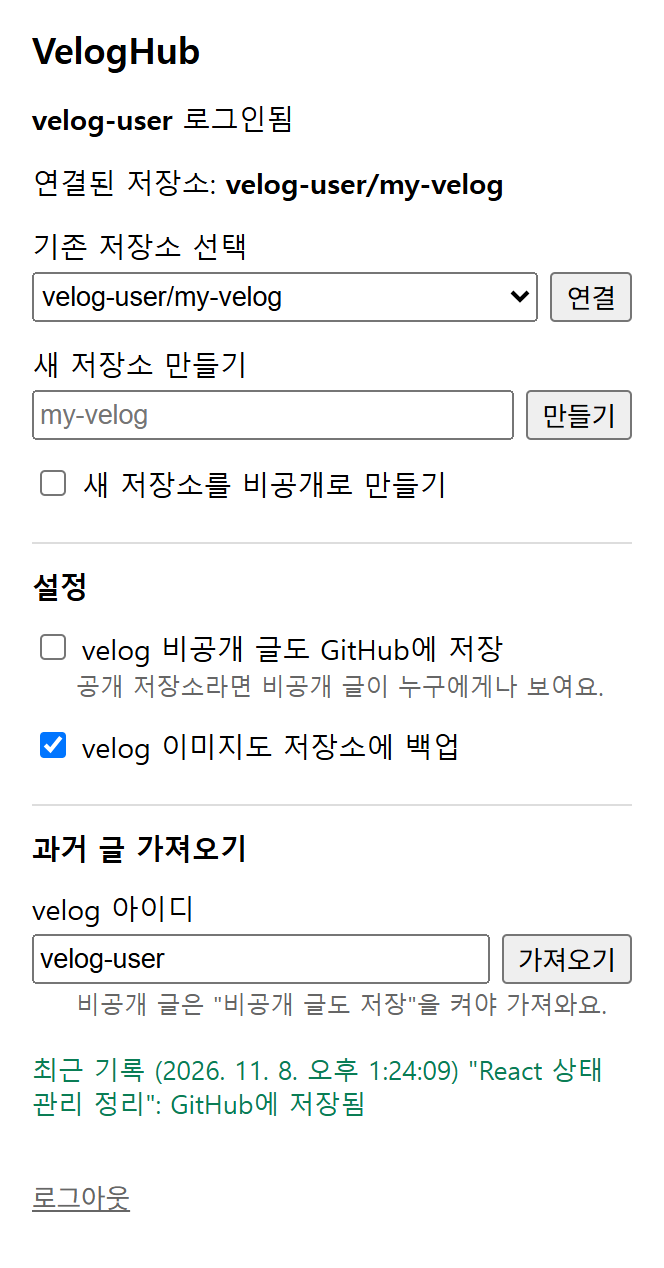
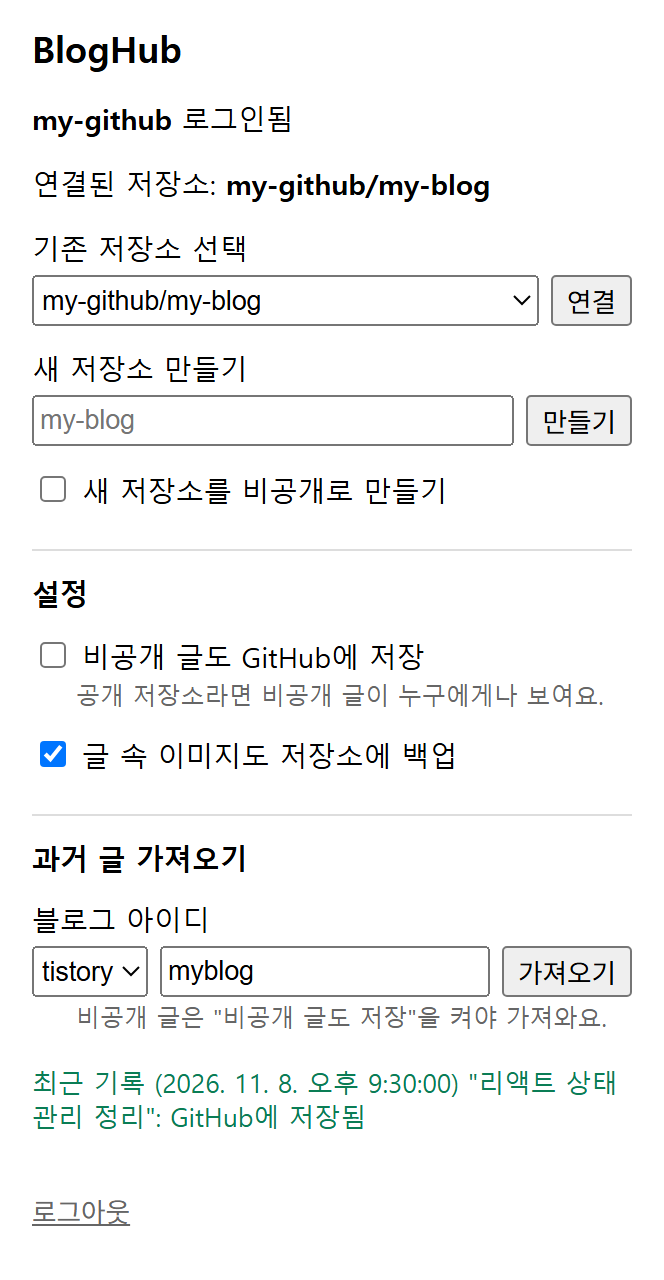
티스토리 과거 글 가져오기, 팝업 문구 정리, README 갱신
- 과거 글 가져오기를 velog/tistory 선택 + 블로그 아이디로 바꿈 (티스토리는 내 블로그 글 목록에서 가져옴)
- 설정 문구에서 velog를 빼고 블로그 공통으로
- README 팝업 사진과 과거 글 가져오기 설명, 스토어 설명 갱신

diff --git a/src/background.js b/src/background.js
@@ -5,17 +5,27 @@ import * as tistory from './tistory.js';
 
 const store = chrome.storage.local;
 
-// 메시지를 보낸 페이지로 어느 블로그인지 정한다.
+// 블로그마다 다른 부분.
 // key: 저장소에 저장한 파일을 기억하는 이름 (티스토리 글 번호는 블로그마다 1부터라 블로그 주소를 붙인다)
-function sourceOf(url) {
-  if (url?.startsWith('https://velog.io/')) return { name: 'velog', fetchPost, key: (id) => id };
-  const origin = url && new URL(url).pathname.startsWith('/manage/') ? tistory.blogOrigin(url) : null;
-  if (!origin) throw new Error('velog나 티스토리 관리 화면에서 온 요청이 아니에요');
+// importId: 팝업의 "과거 글 가져오기" 칸에 미리 채울 아이디
+const velogSource = { name: 'velog', fetchPost, key: (id) => id, importId: (post) => post.username };
+
+function tistorySource(origin) {
+  const host = new URL(origin).hostname;
   return {
     name: 'tistory',
     fetchPost: (id) => tistory.fetchPost(origin, id),
-    key: (id) => `tistory:${new URL(origin).hostname}:${id}`,
+    key: (id) => `tistory:${host}:${id}`,
+    importId: () => host.split('.')[0],
   };
+}
+
+// 메시지를 보낸 페이지로 어느 블로그인지 정한다
+function sourceOf(url) {
+  if (url?.startsWith('https://velog.io/')) return velogSource;
+  const origin = url && new URL(url).pathname.startsWith('/manage/') ? tistory.blogOrigin(url) : null;
+  if (!origin) throw new Error('velog나 티스토리 관리 화면에서 온 요청이 아니에요');
+  return tistorySource(origin);
 }
 
 // 서비스 워커가 새로 떴다면 전에 하던 가져오기는 이미 멈춘 것이라 표시를 지운다
@@ -103,7 +113,7 @@ async function publish(id, token, source) {
   if (!post) throw new Error(`${source.name}에서 글을 찾지 못했어요. 비공개 글이면 로그인돼 있는지 확인해 주세요.`);
   const done = (message) => ({ title: post.title, message });
   if (post.is_temp) return done('임시저장 글이라 저장하지 않았어요.');
-  if (source.name === 'velog') await store.set({ velogUser: post.username }); // 과거 글 가져오기 칸에 미리 채워 둔다
+  await store.set({ importBlog: source.name, importUser: source.importId(post) }); // 과거 글 가져오기 칸에 미리 채워 둔다
   const key = source.key(post.id);
   const oldPath = pathOf(key);
 
@@ -128,37 +138,53 @@ async function publish(id, token, source) {
 // 이미지 메모리와 GitHub 요청이 한꺼번에 몰리지 않게 이만큼씩 나눠 커밋한다
 const IMPORT_CHUNK = 10;
 
-// velog에 쓴 글 전체를 가져온다
-async function importAll(username, token) {
+// 과거 글 목록. load는 목록의 한 항목을 저장할 글로 바꾼다 (지워졌으면 null).
+// velog는 목록에 글 내용까지 오고, 티스토리는 글 번호만 와서 한 글씩 다시 읽는다.
+async function postList(blog, username, onPage) {
+  if (blog === 'tistory') {
+    const origin = tistory.originOf(username);
+    const source = tistorySource(origin);
+    return { source, items: await tistory.listPostIds(origin, onPage), load: (id) => source.fetchPost(id) };
+  }
+  return { source: velogSource, items: await fetchAllPosts(username, onPage), load: async (item) => normalize(item) };
+}
+
+// 블로그에 쓴 글 전체를 가져온다
+async function importAll(blog, username, token) {
   const { repo, savePrivate, backupImages, pathOf, remember } = await target(token);
   const status = (importStatus) => store.set({ importStatus });
-  const raw = await fetchAllPosts(username, (n) => status(`글 목록 불러오는 중 (${n}개)`));
+  const { source, items, load } = await postList(blog, username, (n) => status(`글 목록 불러오는 중 (${n}개)`));
   let saved = 0;
   let broken = 0;
-  for (let start = 0; start < raw.length; start += IMPORT_CHUNK) {
+  for (let start = 0; start < items.length; start += IMPORT_CHUNK) {
     const files = {};
     const deleteDirs = [];
     const paths = {};
-    for (const [j, item] of raw.slice(start, start + IMPORT_CHUNK).entries()) {
-      await status(`글 준비 중 ${start + j + 1}/${raw.length}`);
+    for (const [j, item] of items.slice(start, start + IMPORT_CHUNK).entries()) {
+      await status(`글 준비 중 ${start + j + 1}/${items.length}`);
       let post;
       try {
-        post = normalize(item);
+        post = await load(item);
       } catch {
         broken++; // 정보가 빠진 글 하나 때문에 전체를 멈추지 않는다
         continue;
       }
-      if (post.is_temp || (post.is_private && !savePrivate)) continue;
-      const result = await postFiles(post, backupImages, pathOf(post.id));
+      if (!post || post.is_temp || (post.is_private && !savePrivate)) continue;
+      const key = source.key(post.id);
+      const result = await postFiles(post, backupImages, pathOf(key));
       Object.assign(files, result.files);
       deleteDirs.push(...result.deleteDirs);
-      paths[post.id] = result.path;
+      paths[key] = result.path;
     }
     const count = Object.keys(paths).length;
     if (!count) continue;
-    const end = Math.min(start + IMPORT_CHUNK, raw.length);
-    await status(`GitHub에 커밋하는 중 (${end}/${raw.length})`);
-    await commitFiles(token, repo, { files, deleteDirs, message: `[velog] 과거 글 가져오기 (${start + 1}~${end})` });
+    const end = Math.min(start + IMPORT_CHUNK, items.length);
+    await status(`GitHub에 커밋하는 중 (${end}/${items.length})`);
+    await commitFiles(token, repo, {
+      files,
+      deleteDirs,
+      message: `[${source.name}] 과거 글 가져오기 (${start + 1}~${end})`,
+    });
     await remember(paths); // 나눠 커밋하므로 중간에 멈춰도 여기까지는 저장된다
     saved += count;
   }
@@ -212,12 +238,14 @@ async function handle(msg, sender) {
       });
     }
     case 'import': {
-      if (typeof msg.username !== 'string' || !msg.username.trim()) throw new Error('velog 아이디를 입력해 주세요.');
+      if (msg.blog !== 'velog' && msg.blog !== 'tistory') throw new Error('블로그 종류를 골라 주세요.');
+      if (typeof msg.username !== 'string' || !msg.username.trim()) throw new Error('블로그 아이디를 입력해 주세요.');
+      if (msg.blog === 'tistory') tistory.originOf(msg.username); // 이상한 아이디는 시작 전에 알린다
       if (importing) throw new Error('이미 가져오는 중이에요.');
       importing = true;
       await store.set({ importStatus: '시작하는 중' });
       // 오래 걸리니 팝업에는 바로 답하고, 진행 상황은 importStatus로 보여 준다
-      record('과거 글 가져오기', () => keepAlive(() => importAll(msg.username.trim(), token)))
+      record('과거 글 가져오기', () => keepAlive(() => importAll(msg.blog, msg.username.trim(), token)))
         .catch(() => {})
         .finally(() => {
           importing = false;

diff --git a/popup/popup.js b/popup/popup.js
@@ -14,11 +14,18 @@ async function send(msg) {
 let reposLoaded = false;
 
 async function render() {
-  const { token, user, repo, pending, authError, lastSync, savePrivate = false, backupImages = true, velogUser, importStatus } =
-    await store.get();
+  const {
+    token, user, repo, pending, authError, lastSync, savePrivate = false, backupImages = true, importStatus,
+    importBlog = 'velog', velogUser, importUser = velogUser, // velogUser: 1.0.0이 저장한 값
+  } = await store.get();
   $('save-private').checked = savePrivate;
   $('backup-images').checked = backupImages;
-  if (velogUser && !$('velog-user').value) $('velog-user').value = velogUser;
+  // 마지막으로 글을 저장한 블로그와 아이디를 미리 채운다 (직접 고친 값은 그대로 둔다)
+  if (importUser && !$('import-user').value) {
+    $('import-blog').value = importBlog;
+    $('import-user').value = importUser;
+    showPlaceholder();
+  }
   $('import-btn').disabled = !!importStatus;
   $('import-status').textContent = importStatus ?? '비공개 글은 "비공개 글도 저장"을 켜야 가져와요.';
   if (lastSync) {
@@ -76,7 +83,14 @@ $('create-form').onsubmit = async (e) => {
 
 $('save-private').onchange = (e) => store.set({ savePrivate: e.target.checked });
 $('backup-images').onchange = (e) => store.set({ backupImages: e.target.checked });
-$('import-btn').onclick = () => send({ type: 'import', username: $('velog-user').value }).catch(() => {});
+$('import-btn').onclick = () =>
+  send({ type: 'import', blog: $('import-blog').value, username: $('import-user').value }).catch(() => {});
+
+// 고른 블로그에 맞게 어떤 아이디를 넣는지 보여 준다
+function showPlaceholder() {
+  $('import-user').placeholder = $('import-blog').value === 'tistory' ? '아이디.tistory.com의 아이디' : 'velog.io/@아이디';
+}
+$('import-blog').onchange = showPlaceholder;
 
 $('logout-btn').onclick = () => {
   reposLoaded = false;

diff --git a/src/tistory.js b/src/tistory.js
@@ -12,6 +12,28 @@ export function blogOrigin(url) {
   return origin;
 }
 
+// 블로그 아이디(아이디.tistory.com의 아이디)로 블로그 주소
+export const originOf = (id) => blogOrigin(`https://${String(id).trim().toLowerCase()}.tistory.com/`);
+
+// 과거 글 가져오기: 글 관리 목록(/manage/posts.json)에서 글 번호를 모두 모은다.
+// 관리 화면이라 블로그 주인으로 로그인돼 있어야 한다. 비공개 글도 들어 있다.
+export async function listPostIds(origin, onPage) {
+  const ids = new Set();
+  for (let page = 1; page <= 1000; page++) {
+    const query = `category=-3&page=${page}&searchKeyword=&searchType=title&visibility=all`; // 관리 화면이 쓰는 값 그대로
+    const res = await fetch(`${origin}/manage/posts.json?${query}`, { credentials: 'include' });
+    if (!res.ok) throw new Error(`티스토리 서버 오류 (${res.status})`);
+    const data = await res.json().catch(() => null); // 로그인 화면(HTML)으로 넘어가면 JSON이 아니다
+    if (!Array.isArray(data?.items)) {
+      throw new Error('티스토리 글 목록을 읽지 못했어요. 내 블로그 아이디인지, 티스토리에 로그인돼 있는지 확인해 주세요.');
+    }
+    for (const item of data.items) if (/^\d+$/.test(String(item.id))) ids.add(String(item.id));
+    await onPage?.(ids.size);
+    if (!data.items.length || ids.size >= data.totalCount) break;
+  }
+  return [...ids];
+}
+
 // 수정 화면 HTML에서 post: {...} 한 줄을 꺼낸다.
 // 지워진 글은 티스토리가 "삭제된 글입니다" 알림만 있는 짧은 페이지를 준다 → null.
 // 그 밖에 알아볼 수 없는 화면은 오류: 지워진 것으로 착각해 GitHub 백업을 지우지 않게.

diff --git a/popup/popup.html b/popup/popup.html
@@ -39,14 +39,18 @@
     </form>
 
     <h2>설정</h2>
-    <label><input type="checkbox" id="save-private"> velog 비공개 글도 GitHub에 저장</label>
+    <label><input type="checkbox" id="save-private"> 비공개 글도 GitHub에 저장</label>
     <p class="hint">공개 저장소라면 비공개 글이 누구에게나 보여요.</p>
-    <label><input type="checkbox" id="backup-images"> velog 이미지도 저장소에 백업</label>
+    <label><input type="checkbox" id="backup-images"> 글 속 이미지도 저장소에 백업</label>
 
     <h2>과거 글 가져오기</h2>
-    <label for="velog-user">velog 아이디</label>
+    <label for="import-user">블로그 아이디</label>
     <div class="row">
-      <input id="velog-user" placeholder="velog 아이디">
+      <select id="import-blog" aria-label="블로그 종류">
+        <option value="velog">velog</option>
+        <option value="tistory">tistory</option>
+      </select>
+      <input id="import-user" placeholder="velog.io/@아이디">
       <button id="import-btn">가져오기</button>
     </div>
     <p class="hint" id="import-status" role="status">비공개 글은 "비공개 글도 저장"을 켜야 가져와요.</p>

diff --git a/popup/popup.css b/popup/popup.css
@@ -4,6 +4,7 @@ label { display: block; margin-top: 12px; }
 h2 { font-size: 14px; margin: 20px 0 0; padding-top: 12px; border-top: 1px solid #ddd; }
 .row { display: flex; gap: 6px; margin-top: 4px; }
 .row select, .row input { flex: 1; min-width: 0; }
+.row #import-blog { flex: none; }
 .code { font: bold 24px monospace; letter-spacing: 2px; text-align: center; }
 .link { margin-top: 16px; background: none; border: none; padding: 0; color: #666; text-decoration: underline; cursor: pointer; }
 #error, .fail { color: #c00; }

diff --git a/README.md b/README.md
@@ -19,7 +19,7 @@
 | 비공개 글 저장 (설정에서 켜기) | ✅ | ✅ |
 | 원본 마크다운 그대로 | ✅ | HTML을 마크다운으로 변환 |
 | 시리즈별 폴더 | ✅ | — |
-| 과거 글 한 번에 가져오기 | ✅ | — |
+| 과거 글 한 번에 가져오기 | ✅ | ✅ (내 블로그) |
 
 ## 설치
 
@@ -43,7 +43,17 @@
    - **velog:** "출간하기"를 누르면 오른쪽 아래에 "GitHub에 저장됨" 알림이 뜹니다.
    - **티스토리:** `아이디.tistory.com` 관리 화면에서 발행·수정·삭제하면 커밋됩니다.
 
-velog에 이미 쓴 글은 팝업의 **과거 글 가져오기**에 velog 아이디를 넣어 한 번에 가져올 수 있습니다.
+### 과거 글 가져오기
+
+이미 쓴 글은 팝업 아래쪽의 **과거 글 가져오기**에서 한 번에 가져옵니다. 블로그 종류를 고르고 아이디를 넣은 뒤 **가져오기**를 누르세요.
+
+| 블로그 | 넣을 아이디 | 예 |
+| --- | --- | --- |
+| velog | `velog.io/@아이디`의 아이디 | `velog.io/@myname` → `myname` |
+| tistory | `아이디.tistory.com`의 아이디 | `myblog.tistory.com` → `myblog` |
+
+- 티스토리는 블로그 관리 화면의 글 목록을 읽기 때문에, **내 블로그만** 티스토리에 로그인한 상태에서 가져올 수 있습니다.
+- 비공개 글은 설정의 **비공개 글도 GitHub에 저장**을 켜야 함께 가져옵니다.
 
 ## 저장되는 모습
 
@@ -77,10 +87,10 @@ velog_url: https://velog.io/@아이디/useState-정리
 ## 알아둘 점
 
 - **공개 저장소에 저장하면 누구나 글을 볼 수 있습니다.** 비공개 글까지 저장하려면 비공개 저장소를 쓰세요. 지운 글도 git 기록에는 남습니다.
-- **비공개 글**은 "비공개 글도 저장"을 켜고, 같은 브라우저에서 블로그에 로그인돼 있어야 저장됩니다.
+- **비공개 글**은 "비공개 글도 GitHub에 저장"을 켜고, 같은 브라우저에서 블로그에 로그인돼 있어야 저장됩니다.
 - velog와 티스토리 모두 공식 공개 API가 아니어서, 사이트가 바뀌면 동작하지 않을 수 있습니다. 실패하면 화면 알림과 팝업의 "최근 기록"에 이유가 나옵니다.
 - **티스토리 변환:** 제목, 굵게, 링크, 이미지, 목록, 인용, 코드 블록은 마크다운으로 바뀌고, 표는 HTML 그대로 남습니다(GitHub에서는 표로 보입니다).
-- **티스토리에서 아직 안 되는 것:** 카테고리별 폴더, 과거 글 가져오기, 글 관리 목록에서 여러 글을 한꺼번에 지우거나 공개 범위를 바꾸는 것, 개인 도메인 블로그.
+- **티스토리에서 아직 안 되는 것:** 카테고리별 폴더, 글 관리 목록에서 여러 글을 한꺼번에 지우거나 공개 범위를 바꾸는 것, 개인 도메인 블로그.
 - GitHub 토큰은 이 브라우저의 확장 저장소에만 보관됩니다. 완전히 끊으려면 GitHub → Settings → Applications에서 BlogHub 권한을 지우세요.
 - 확장을 새로고침했다면 열려 있던 블로그 탭도 새로고침하세요.
 - 개인정보처리방침: [PRIVACY.md](PRIVACY.md)

diff --git a/store/listing.md b/store/listing.md
@@ -40,11 +40,11 @@ BlogHub는 velog나 티스토리에 글을 발행하는 순간, 그 글을 내 G
 
 ■ 주요 기능
 - 발행 즉시 커밋: velog의 "출간하기", 티스토리의 발행을 누르면 바로 GitHub에 저장됩니다. 임시저장은 커밋하지 않습니다.
-- 원본 마크다운 그대로: 직접 쓴 마크다운에 제목, 날짜, 태그, 시리즈, 글 주소를 붙여 저장합니다.
+- 마크다운으로 저장: velog는 직접 쓴 마크다운 그대로, 티스토리는 HTML을 마크다운으로 바꿔 제목, 날짜, 태그, 글 주소와 함께 저장합니다.
 - 수정·삭제 반영: 글을 고치면 같은 파일을 업데이트하고, 블로그에서 지우면 저장소에서도 지웁니다.
 - 이미지 백업: 글에 들어간 블로그 이미지를 저장소에 함께 저장하고 링크를 저장소 경로로 바꿉니다.
-- 시리즈별 폴더: 시리즈에 속한 글은 posts/시리즈명/ 폴더에 정리됩니다.
-- 과거 글 가져오기: 지금까지 쓴 글을 한 번에 저장소로 가져옵니다.
+- 시리즈별 폴더 (velog): 시리즈에 속한 글은 posts/시리즈명/ 폴더에 정리됩니다.
+- 과거 글 가져오기: velog 아이디나 내 티스토리 블로그 아이디를 넣으면 지금까지 쓴 글을 한 번에 저장소로 가져옵니다.
 - 비공개 글 선택: 비공개 글은 기본으로 저장하지 않고, 설정에서 켤 수 있습니다.
 
 ■ 사용 방법
@@ -90,7 +90,7 @@ How to test:
 2. In the popup, create a new repository (e.g. "my-velog") or pick an existing one.
 3. Sign in to velog.io (any GitHub/Google account works), write a post and press "출간하기" (Publish).
 4. A green "GitHub에 저장됨" (Saved to GitHub) toast appears and the post is committed to posts/<date>-<slug>.md in the chosen repository.
-Optional: "과거 글 가져오기" (Import past posts) in the popup imports all existing posts of a velog username.
+Optional: "과거 글 가져오기" (Import past posts) in the popup imports all posts of a velog username, or of the user's own Tistory blog.
 Tistory: sign in to tistory.com, open the blog's admin (https://<blog>.tistory.com/manage/newpost), publish a post (private is fine), then edit or delete it in the admin. Each action is committed to the repository as "[tistory] ...".
 
 Permissions:
